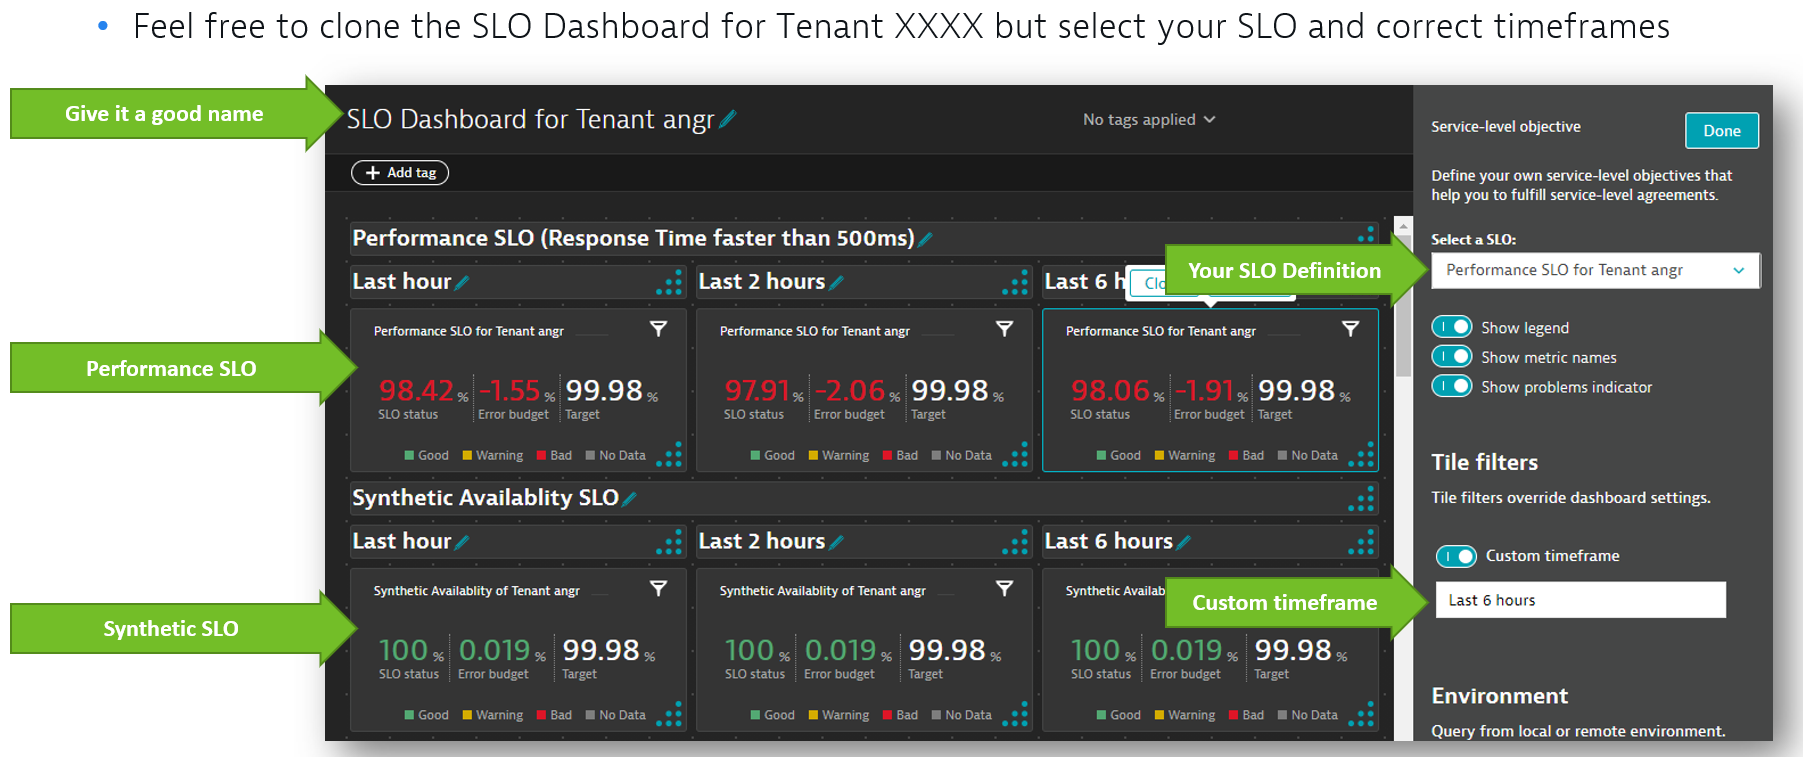
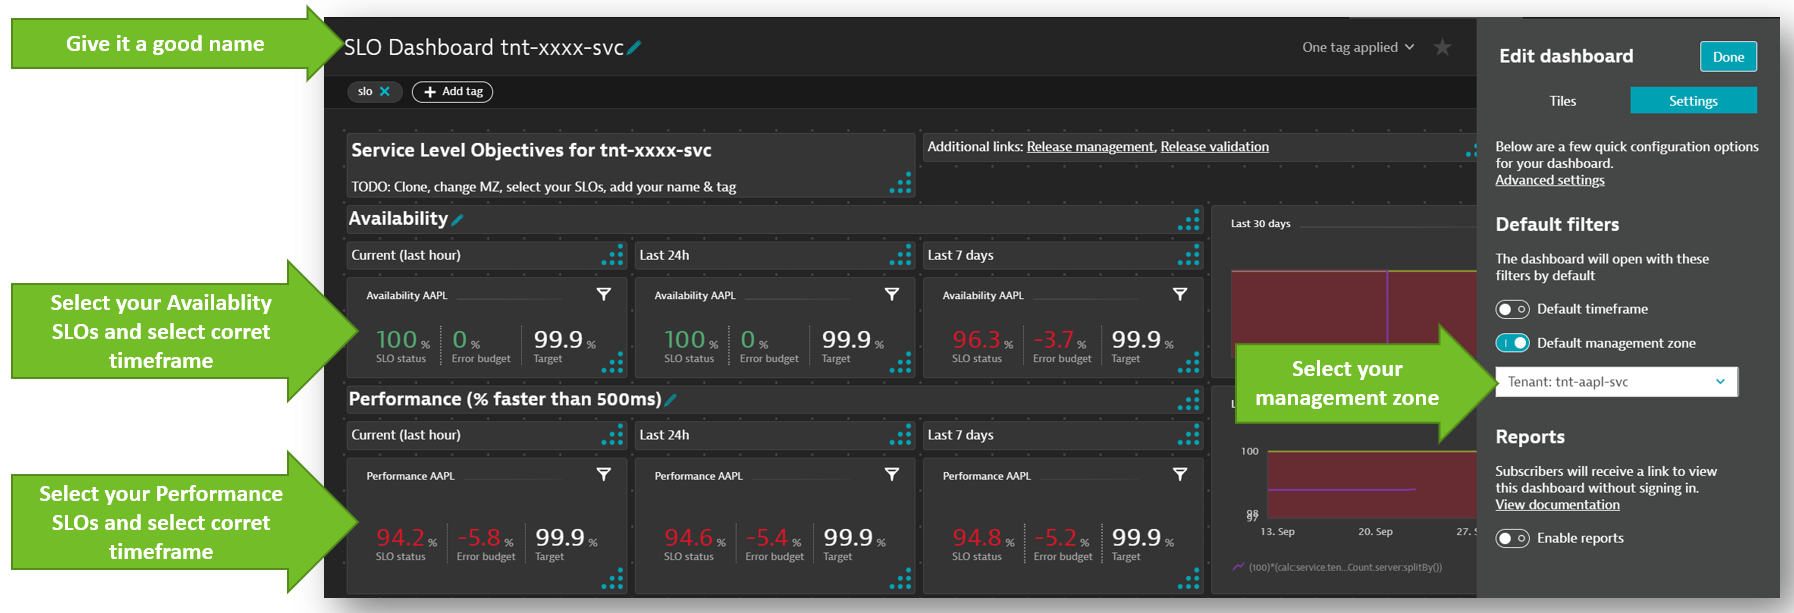
updated instructions

diff --git a/cloudautomation/INSTRUCTIONS.md b/cloudautomation/INSTRUCTIONS.md
@@ -74,9 +74,9 @@ As shown by the instructor simply walk through the *Add new SLO* wizard in Dynat
 | Field | Value |
 | ------ | ------------- |
 | Metrics Expression | `(builtin:synthetic.browser.availability.location.total:splitBy()`  |
-| Entity Selector | `type("SYNTHETIC_TEST"),tag("tnt-xxxx-svc"),tag("production")` |
 | Name of SLO | `Availability of xxxx` |
 | Description | `% of time xxxx service is available based on synthetic test` | 
+| Entity Selector | `type("SYNTHETIC_TEST"),tag("tnt-xxxx-svc"),tag("production")` |
 | Timeframe | `-1w` |
 
 ### Step 2 - Create Performance SLO
@@ -88,14 +88,14 @@ As shown by the instructor simply walk through the *Add new SLO* wizard in Dynat
 | Field | Value |
 | ------ | ------------- |
 | Metrics Expression | `(100)*(calc:service.tenant.responsetime.count.faster500ms:splitBy())/(builtin:service.requestCount.server:splitBy())`  |
-| Entity Selector | `type("SERVICE"),tag("[Environment]WorkshopTenant:xxxx"),tag("[Environment]DT_APPLICATION_ENVIRONMENT:production")` |
 | Name of SLO | `Performance SLO of xxxx` |
 | Description | `% of requests handled by xxxx service faster than 500ms` | 
+| Entity Selector | `type("SERVICE"),tag("[Environment]WorkshopTenant:xxxx"),tag("[Environment]DT_APPLICATION_ENVIRONMENT:production")` |
 | Timeframe | `-1w` |
 
 ### Step 3 - Create SLO Dashboard
 
-Create SLO dashboard as explained and shown by instructor.
+Clone the *preset* dashboard with the name `SLO Dashboard tnt-xxxx-svc`. Then modify the cloned dashboard as explained in the following screenshot!
 ![](./images/lab1_slodashboard_edit.png)
 
 ## Lab 2 - Release Validation
@@ -110,7 +110,7 @@ and then have it automatically evaluated giving us an SLO score for a certain re
 
 ### Step 1 - Clone dashboard
 
-Clone the dashboard with the name `KQG;project=dynatrace;stage=production;service=tnt-xxxx-svc` as shown here:
+Clone the *preset* dashboard with the name `KQG;project=dynatrace;stage=production;service=tnt-xxxx-svc` as shown here:
 ![](./images/lab2_clonsedashboard.png)
 
 ### Step 2 - Rename dashboard and configure your SLOs
